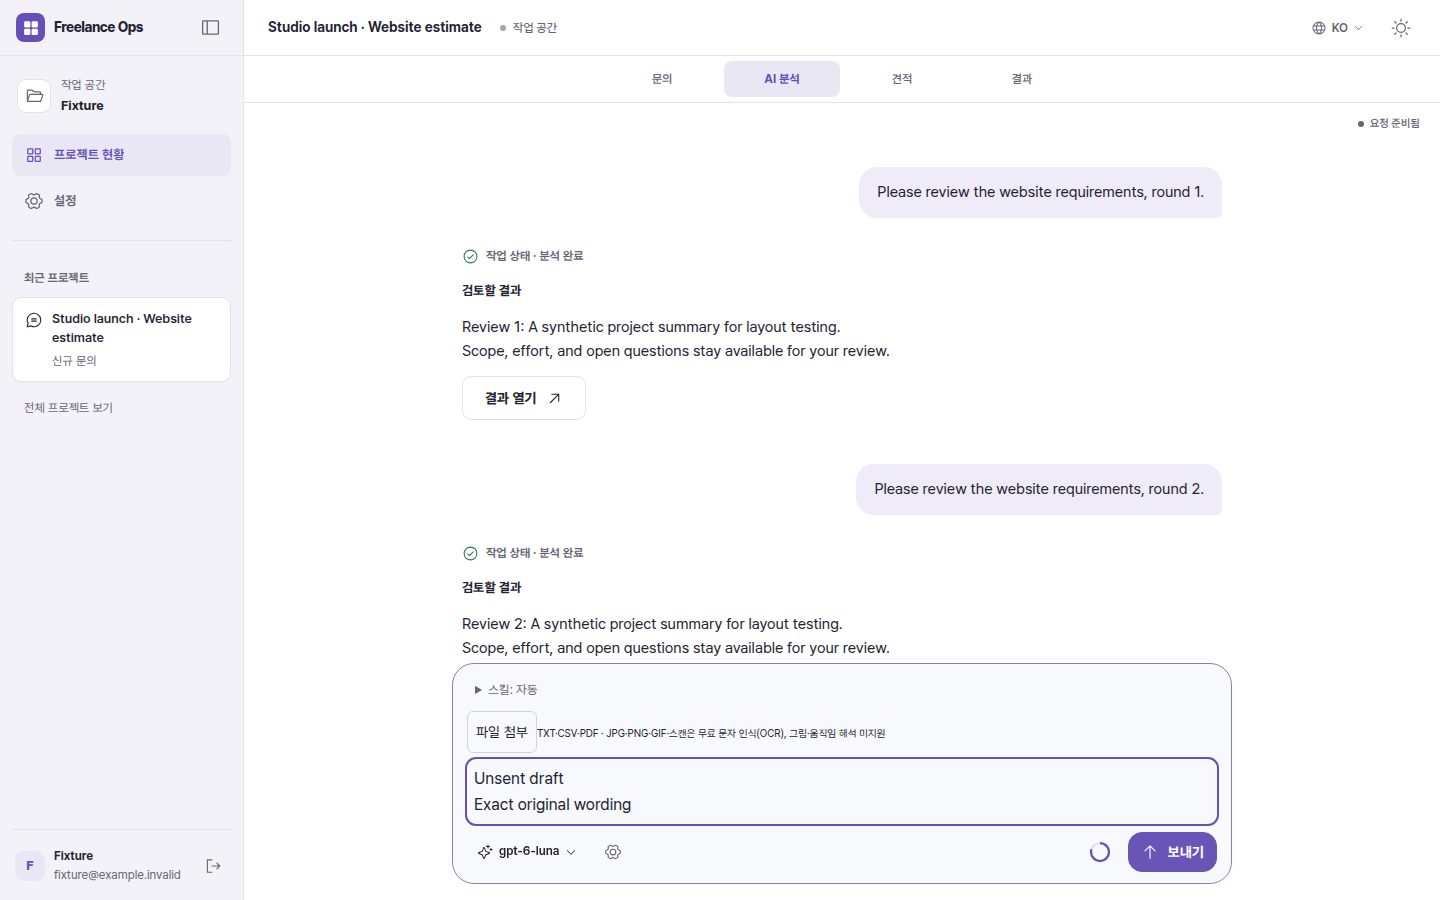
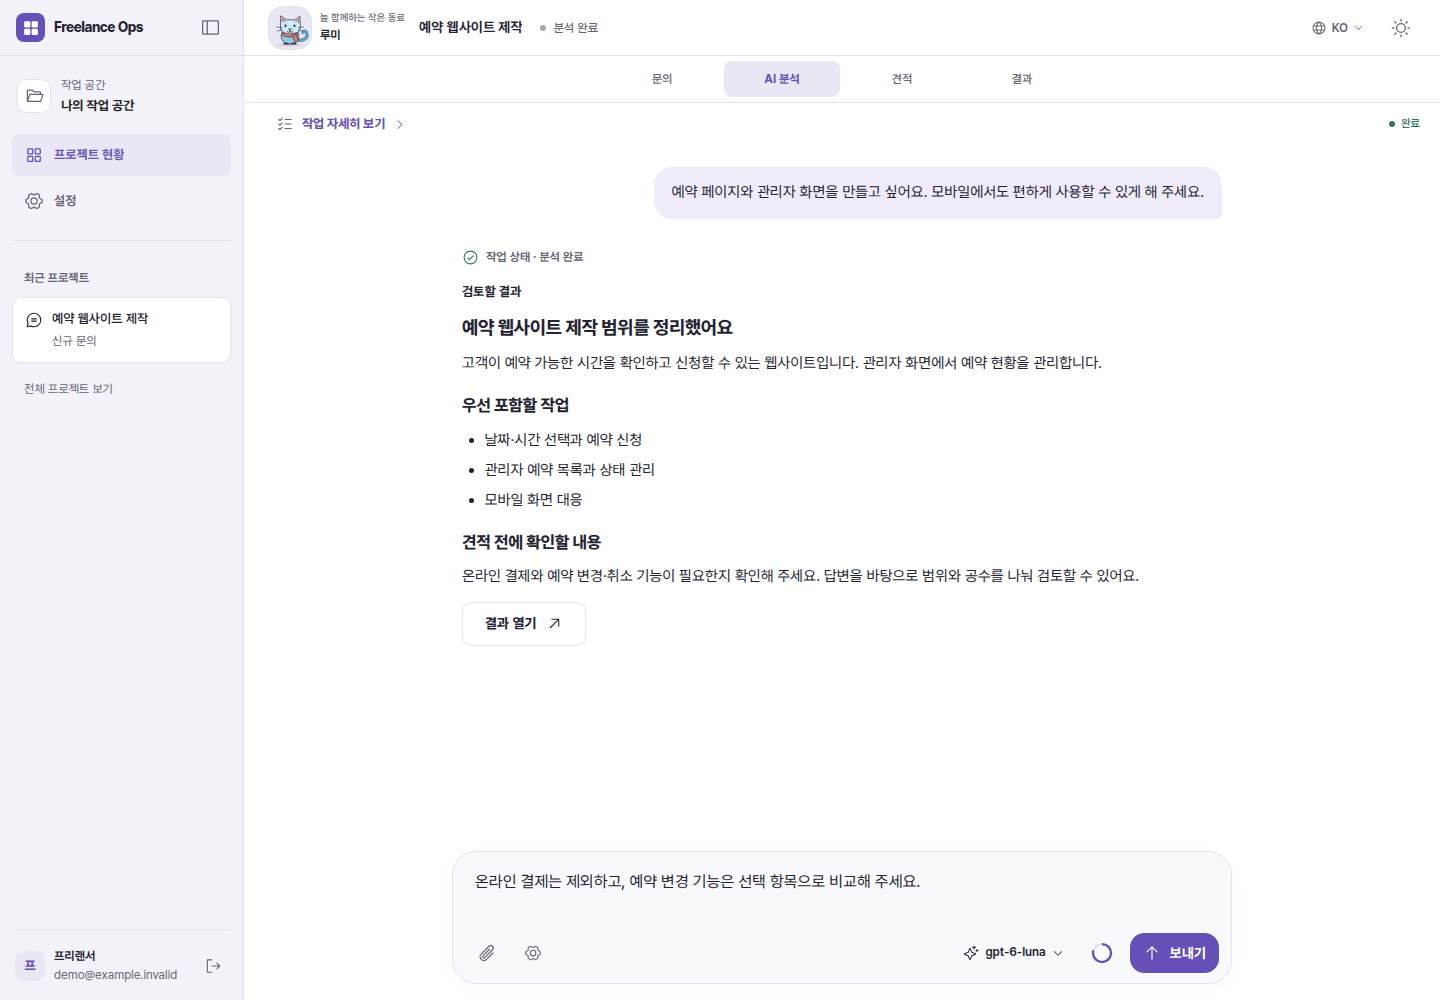
docs: refresh product screenshots and document the complete technology stack

diff --git a/README.md b/README.md
@@ -8,17 +8,49 @@
 
 [서비스 소개](https://www.freelance-ops.site) · [업무 공간 시작](https://www.freelance-ops.site/workspace) · [기술 포트폴리오](docs/portfolio/README.md)
 
+**Web & Interaction**
+
 ![Next.js](https://img.shields.io/badge/Next.js_16-000000?style=flat-square&logo=nextdotjs&logoColor=white)
+![React](https://img.shields.io/badge/React_19-149ECA?style=flat-square&logo=react&logoColor=white)
+![TypeScript](https://img.shields.io/badge/TypeScript-3178C6?style=flat-square&logo=typescript&logoColor=white)
+![Tailwind CSS](https://img.shields.io/badge/Tailwind_CSS_4-06B6D4?style=flat-square&logo=tailwindcss&logoColor=white)
+![GSAP](https://img.shields.io/badge/GSAP-0AE448?style=flat-square&logo=gsap&logoColor=black)
+![Three.js](https://img.shields.io/badge/Three.js_%2F_WebGL-000000?style=flat-square&logo=threedotjs&logoColor=white)
+
+**Backend & Data**
+
+![Java](https://img.shields.io/badge/Java_21-ED8B00?style=flat-square)
 ![Spring Boot](https://img.shields.io/badge/Spring_Boot_4-6DB33F?style=flat-square&logo=springboot&logoColor=white)
+![Spring Security](https://img.shields.io/badge/Spring_Security-6DB33F?style=flat-square&logo=springsecurity&logoColor=white)
+![Hibernate](https://img.shields.io/badge/JPA_%2F_Hibernate-59666C?style=flat-square&logo=hibernate&logoColor=white)
+![PostgreSQL](https://img.shields.io/badge/PostgreSQL_17-4169E1?style=flat-square&logo=postgresql&logoColor=white)
+![pgvector](https://img.shields.io/badge/pgvector-4169E1?style=flat-square)
+
+**AI Runtime**
+
+![Python](https://img.shields.io/badge/Python_3.12-3776AB?style=flat-square&logo=python&logoColor=white)
 ![FastAPI](https://img.shields.io/badge/FastAPI-009688?style=flat-square&logo=fastapi&logoColor=white)
 ![LangGraph](https://img.shields.io/badge/LangGraph-1C3C3C?style=flat-square)
-![PostgreSQL](https://img.shields.io/badge/PostgreSQL_+_pgvector-4169E1?style=flat-square&logo=postgresql&logoColor=white)
+![OpenAI](https://img.shields.io/badge/OpenAI_Responses_API-412991?style=flat-square)
+![SQLAlchemy](https://img.shields.io/badge/SQLAlchemy-D71F00?style=flat-square&logo=sqlalchemy&logoColor=white)
+![Tesseract OCR](https://img.shields.io/badge/Tesseract_OCR-4285F4?style=flat-square)
+
+**Delivery & Quality**
+
+![Docker](https://img.shields.io/badge/Docker_Compose-2496ED?style=flat-square&logo=docker&logoColor=white)
+![GitHub Actions](https://img.shields.io/badge/GitHub_Actions_%2F_GHCR-2088FF?style=flat-square&logo=githubactions&logoColor=white)
+![Caddy](https://img.shields.io/badge/Caddy-1F88C0?style=flat-square&logo=caddy&logoColor=white)
+![Vultr](https://img.shields.io/badge/Vultr-007BFC?style=flat-square&logo=vultr&logoColor=white)
+![Vercel](https://img.shields.io/badge/Vercel-000000?style=flat-square&logo=vercel&logoColor=white)
+![Playwright](https://img.shields.io/badge/Playwright-2EAD33?style=flat-square)
+![JUnit](https://img.shields.io/badge/JUnit-25A162?style=flat-square&logo=junit5&logoColor=white)
+![pytest](https://img.shields.io/badge/pytest-0A9EDC?style=flat-square&logo=pytest&logoColor=white)
+
+[전체 기술 스택·선택 기능·실험 도구 보기](#전체-기술-스택)
 
 </div>
 
 [![Freelance Ops 서비스 소개](docs/assets/readme/landing-overview.png)](https://www.freelance-ops.site)
-
-<sub>서비스 소개 화면</sub>
 
 ## 왜 만들었나요?
 
@@ -69,8 +101,6 @@
 
 <img src="docs/assets/readme/custom-pets.png" alt="AI 동료 설정 미리보기" width="390" />
 
-<sub>채팅·개인 키·AI 동료 화면은 예시 데이터로 촬영했습니다.</sub>
-
 ## 작동 방식과 기술 파이프라인
 
 1. **입력과 업무 데이터:** Next.js에서 받은 고객·문의 정보를 Spring이 인증·권한 검사 후 저장합니다.
@@ -80,15 +110,72 @@
 
 ![시스템 아키텍처와 배포 파이프라인](docs/assets/readme/system-architecture-pipeline.png)
 
-### 이 기술을 선택한 이유
+### 전체 기술 스택
 
-| 영역 | 기술 | 선택 이유 |
+애플리케이션 코드, 의존성·잠금 파일, 데이터베이스 마이그레이션, 배포·CI 설정을 기준으로 정리했습니다. 서비스 구현, 활성화 조건이 있는 통합, 개발·실험 도구를 구분합니다.
+
+#### 서비스 구현
+
+| 영역 | 기술 | 사용하는 곳 |
 | --- | --- | --- |
-| Web | Next.js 16, React 19, TypeScript | 공개 소개와 로그인 이후 업무 공간을 한 프론트엔드에서 구성 |
-| Business API | Java 21, Spring Boot 4, Spring Security, JPA | 인증·권한·거래 데이터를 한곳에서 관리하고 견적 금액을 정해진 규칙으로 계산 |
-| AI Runtime | Python 3.12, FastAPI, LangGraph | 모델·검색 도구를 연결하고, 사용자 확인으로 멈춘 분석을 저장된 상태에서 재개 |
-| Data | PostgreSQL 17, pgvector | 업무 데이터와 검색 근거에 같은 권한·참조 규칙을 적용하고 저장소 운영을 단순화 |
-| Delivery | GitHub Actions, Docker Compose, GHCR, Caddy, Vultr, Vercel | 테스트를 통과한 변경을 서비스별로 검증하고 배포 |
+| Web 플랫폼 | **Next.js 16 · React 19 / React DOM · TypeScript 5 · JavaScript · Node.js 22** | App Router 기반 소개 페이지·업무 공간, 서버·클라이언트 렌더링 |
+| 스타일·UI | **Tailwind CSS 4 · PostCSS · CSS 3D / SVG · next-themes · Phosphor Icons · Pretendard · Noto Sans KR Variable** | 반응형 화면, 다크 모드, 아이콘·한글 타이포그래피, 직접 그린 AI 동료 |
+| 모션·그래픽 | **GSAP 3 · @gsap/react · ScrollTrigger · Three.js · WebGL · GLSL** | 스크롤 타임라인, 포인터 반응, 셰이더 기반 빛·입체 장면. IntersectionObserver·ResizeObserver로 가시성·레이아웃 변화 처리 |
+| 대화·브라우저 API | **react-markdown · remark-gfm · Fetch / Streams API · HTML Drag and Drop** | 안전한 Markdown·GFM 표시, 스트리밍 응답, 프로젝트 보드 이동 |
+| Business API | **Java 21 · Spring Boot 4 · Spring Web MVC · Jakarta Bean Validation · Jackson 3** | 고객·프로젝트·견적 API, 입력 검증, JSON 직렬화, 결정적 금액 계산 |
+| 인증·보안 | **Spring Security · OAuth2 Resource Server · Nimbus JOSE/JWT · PyJWT · BCrypt · AES-256-GCM** | HS256 로그인 JWT, RS256 내부 위임 JWT, 워크스페이스 RBAC, 비밀번호 해시, SHA-256 refresh token 해시, BYOK 키 암호화, CORS·요청 제한 |
+| Spring 데이터 접근 | **Spring Data JPA · Hibernate ORM / Vector · Spring JDBC / JdbcTemplate · PostgreSQL JDBC · HikariCP · Flyway** | 업무 데이터·벡터 매핑, 트랜잭션·커넥션 풀, 버전별 스키마 변경 |
+| Agent API | **Python 3.12 · FastAPI · Uvicorn · Pydantic 2 · Pydantic Settings · asyncio · HTTPX** | 비동기 실행·검증·설정, Spring 내부 API와 모델 제공사 통신 |
+| Agent 실행 | **LangGraph · langgraph-checkpoint-postgres · 자체 Bounded ReAct / StructuredTool** | 실행 상태 그래프, 도구 호출 한도, 사용자 확인(HITL), PostgreSQL 체크포인트·재개 |
+| LLM 연결 | **OpenAI Python SDK · Responses API · JSON Schema Structured Outputs** | 구조화된 요구사항·견적 초안. 개인 키(BYOK)는 HTTPX로 예산 승인된 HTTPS 요청 실행 |
+| Agent 데이터 접근 | **SQLAlchemy 2 Async ORM · Psycopg 3 · Alembic** | 실행·이벤트·작업 상태 저장과 Agent 전용 스키마 마이그레이션 |
+| DB·검색 | **PostgreSQL 17 · pgvector · JSONB · Full-Text Search / tsvector · GIN · HNSW · btree_gist / GiST · RRF** | 업무·근거 저장, 키워드 검색, 코사인 벡터 검색·결과 결합, 기간 중복 제약. 현재 개인 키 실행의 근거 조회는 키워드 검색 사용 |
+| 비동기 작업·이벤트 | **PostgreSQL 기반 durable outbox / inbox · Spring Scheduling · SSE** | HTTP 명령 전달, 재시도·멱등성·lease, 실행 이벤트 저장·브라우저 재연결 |
+| 문서·OCR | **pypdf · Pillow · Poppler / pdftoppm · Tesseract OCR (한국어·영어)** | PDF·텍스트·CSV·이미지 읽기, 별도 프로세스에서 제한된 로컬 OCR |
+| API 계약·SDK | **REST / JSON · OpenAPI 3.1 · springdoc-openapi · Swagger UI · Python SDK** | Spring–Agent 계약 검증, 개발용 API 문서, Python 표준 라이브러리 기반 클라이언트 |
+| 관측 | **Spring Boot Actuator · Micrometer · SLF4J · W3C Trace Context** | 상태·준비도 점검, 호출·지연 지표, 로그와 traceparent 전파 |
+
+#### 배포·운영
+
+| 영역 | 기술 | 사용하는 곳 |
+| --- | --- | --- |
+| 빌드·패키징 | **npm / package-lock · uv / uv.lock · Gradle 9 / Kotlin DSL · Hatchling** | 프론트엔드·Agent 재현 가능한 의존성 설치, Java 빌드, Python SDK·벤치마크 패키징 |
+| 컨테이너·CI/CD | **Docker · Docker Compose · Buildx / BuildKit · GitHub Actions · GHCR** | 멀티스테이지 이미지, 서비스별 테스트·이미지 발행, SHA 태그 기반 배포·롤백 |
+| 서비스 호스팅 | **Vercel · Vultr · Caddy 2 · Eclipse Temurin 21 JRE · Linux · Bash / SSH / SCP** | Next.js 호스팅, VM의 Spring·Agent 실행, HTTPS·리버스 프록시, 배포 스크립트 |
+| 백업·복구 도구 | **pg_dump / pg_restore · rclone / crypt · SHA-256 · OpenSSL** | DB 백업·복구 훈련, 암호화된 외부 백업 경로, 무결성 확인·배포용 키 생성. 외부 백업은 별도 설정 필요 |
+
+#### 선택 기능·구현된 통합
+
+| 영역 | 기술 | 현재 사용 범위 |
+| --- | --- | --- |
+| 계층형 RAG | **RAPTOR · NumPy · spherical K-means · OpenAI Embeddings** | 계층 요약·검색과 임베딩 어댑터 구현. 현재 예산 경계에서는 유료 RAPTOR 생성·질의 임베딩 호출 차단 |
+| 웹 조사 | **Tavily · HTTPX 기반 직접 HTTP/PDF 수집** | 도메인 허용 목록·수집 한도를 둔 검색 통합. 기본 비활성화이며 현재 유료 조사 호출도 차단 |
+| 로컬 라우터 | **LiquidAI LFM2.5-Encoder-350M-Prompt-Router · PyTorch · Hugging Face Transformers · Safetensors · 자체 BM25 / RRF** | local-router 추가 설치와 shadow/진단 실행용. 기본 이미지에 모델 런타임을 설치하지 않으며 shadow 기본값은 OFF |
+| 추적·대시보드 | **LangSmith · Prometheus 호환 지표 · Grafana 대시보드** | 추적·지표 endpoint는 기본 OFF. 대시보드 정의 제공; Prometheus·Grafana 서버는 별도 구성 |
+
+OpenAI 연결 구현과 유료 기능의 활성화 상태는 별개입니다. 신규 제품 실행은 OpenAI를 지원하며, 플랫폼 비용·개인 키 실행에는 각각 예산 승인과 호출 한도를 적용합니다. [개인 키 실행 경계](agent/README.md#bounded-personal-key-execution) · [관측 구성](infra/observability/README.md)
+
+#### 테스트·품질·연구
+
+| 영역 | 기술 | 검증·실험 대상 |
+| --- | --- | --- |
+| 프론트엔드 | **Node.js Test Runner · Playwright / Chromium · TypeScript tsc · ESLint 9 · typescript-eslint · React / Hooks / Next.js / JSX a11y 플러그인** | 단위·회귀·브라우저 테스트, 타입·접근성 규칙, 스크린샷 검증 |
+| 백엔드 | **JUnit Jupiter · Spring Boot Test · MockMvc · Spring Security Test · Mockito · AssertJ · Hamcrest · ArchUnit · Testcontainers** | API·권한·도메인 경계, 실제 PostgreSQL/pgvector 통합 테스트 |
+| Agent·계약·운영 | **pytest · pytest-asyncio · Ruff · mypy · Python unittest · openapi-spec-validator · k6** | Agent 회귀·평가 gate, 타입·린트, API 계약, 배포 순서·복구 스크립트, 부하·준비도 smoke test |
+| Agent 연구·진단 | **Deep Agents · LangChain 생태계 · StateBackend · LangGraph CLI / Studio** | 제한된 파일 권한의 Research spike, Supervisor·라우팅 그래프 진단. Deep Agents는 검증용이며 제품 실행기에 연결하지 않음 |
+| 분류·라우팅·검색 연구 | **Hugging Face Datasets / Hub · Transformers · PyTorch / CUDA · Safetensors · scikit-learn · OpenAI · LangSmith · NumPy · pandas · Matplotlib · python-dotenv** | DistilBERT·MiniLM·LiquidAI 비교, KLUE-MRC·KLUE RoBERTa cross-encoder·BERT QA reader, Dense + BM25 + RRF와 답변 가능성 평가 |
+| 실행시간·스케줄러 연구 | **scikit-learn · XGBoost · joblib · NumPy · pandas · Matplotlib · Plotly · Streamlit** | 회귀·분류·온라인 학습, 스케줄링·재시도·공정성 시뮬레이션과 대시보드. 운영 스케줄러의 ML 적용과는 구분 |
+| 문서 미디어 도구 | **FFmpeg / imageio-ffmpeg** | 제품 녹화 영상의 README용 GIF 변환 스크립트 |
+
+<details>
+<summary>의존성·과거 호환 코드의 구분과 근거 파일</summary>
+
+- **과거 제공사:** Google GenAI SDK·Gemini 어댑터와 이력 표시 코드는 남아 있지만 신규 연결·실행은 지원 종료 상태입니다.
+- **선언된 의존성:** LangChain(`langchain[all]`, `langchain-community`, `langchain-openai`)은 Deep Agents 관련 프레임워크 의존성에 포함됩니다. 애플리케이션의 ReAct·StructuredTool은 자체 구현입니다. `faiss-cpu`, `rank-bm25`, Python `pgvector` 패키지도 manifest에 남아 있으나 현재 애플리케이션의 직접 호출은 없습니다. 실제 벡터 저장·검색은 PostgreSQL 확장과 Hibernate Vector를 사용합니다.
+- **이전 구성:** MongoDB·Beanie·Kafka·운영 FAISS 제거와 Redis 도입 보류는 [ADR-0003](docs/adr/0003-remove-mongodb-kafka-faiss.md), [ADR-0023](docs/adr/0023-defer-redis-until-measured-v3-need.md)에 기록했습니다.
+- **구현 근거:** [프론트엔드 패키지](frontend/package.json) · [Agent 패키지](agent/pyproject.toml) · [Backend Gradle](backend/build.gradle.kts) · [검색 구현](backend/src/main/java/com/freelanceops/backend/domain/knowledge) · [첨부파일·OCR](agent/src/attachments) · [공유 API 계약](contracts) · [배포·운영](infra) · [CI/CD](.github/workflows) · [연구·벤치마크](experiments) · [Python SDK](sdk/python)
+
+</details>
 
 서비스를 나눈 대신 내부 인증과 API 계약을 별도로 관리합니다. 자세한 판단과 대안은 [서비스 경계](docs/adr/0001-spring-python-service-boundary.md), [저장소 선택](docs/adr/0002-postgresql-pgvector.md), [견적 계산·이력](docs/adr/0019-immutable-grounded-quotation.md)에 정리했습니다.
 
